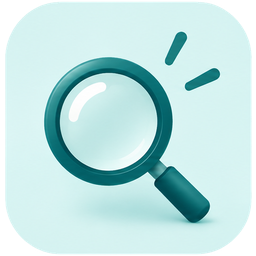
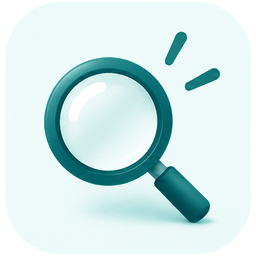
Accueil : icônes de recherche fondues dans le bandeau
Fond turquoise des tuiles rendu semi-transparent dans les PNG (objets
opaques), léger flou d'arrière-plan à la place de l'ombre portée.

diff --git a/web/app/DirectoryClient.tsx b/web/app/DirectoryClient.tsx
@@ -2202,7 +2202,10 @@ export default function DirectoryClient({
                           alt=""
                           aria-hidden
                           className={`w-[100px] h-[100px] lg:w-32 lg:h-32 rounded-[24%] ${on ? "ring-[3px] ring-primary" : ""}`}
-                          style={{ boxShadow: "0 8px 18px -8px rgba(6,50,56,.45)" }}
+                          // Fondu dans le décor : fond des tuiles rendu
+                          // semi-transparent dans les PNG (objets opaques) +
+                          // léger flou de ce qu'il y a derrière, sans ombre.
+                          style={{ backdropFilter: "blur(6px)", WebkitBackdropFilter: "blur(6px)" }}
                         />
                         {b.label}
                       </button>
